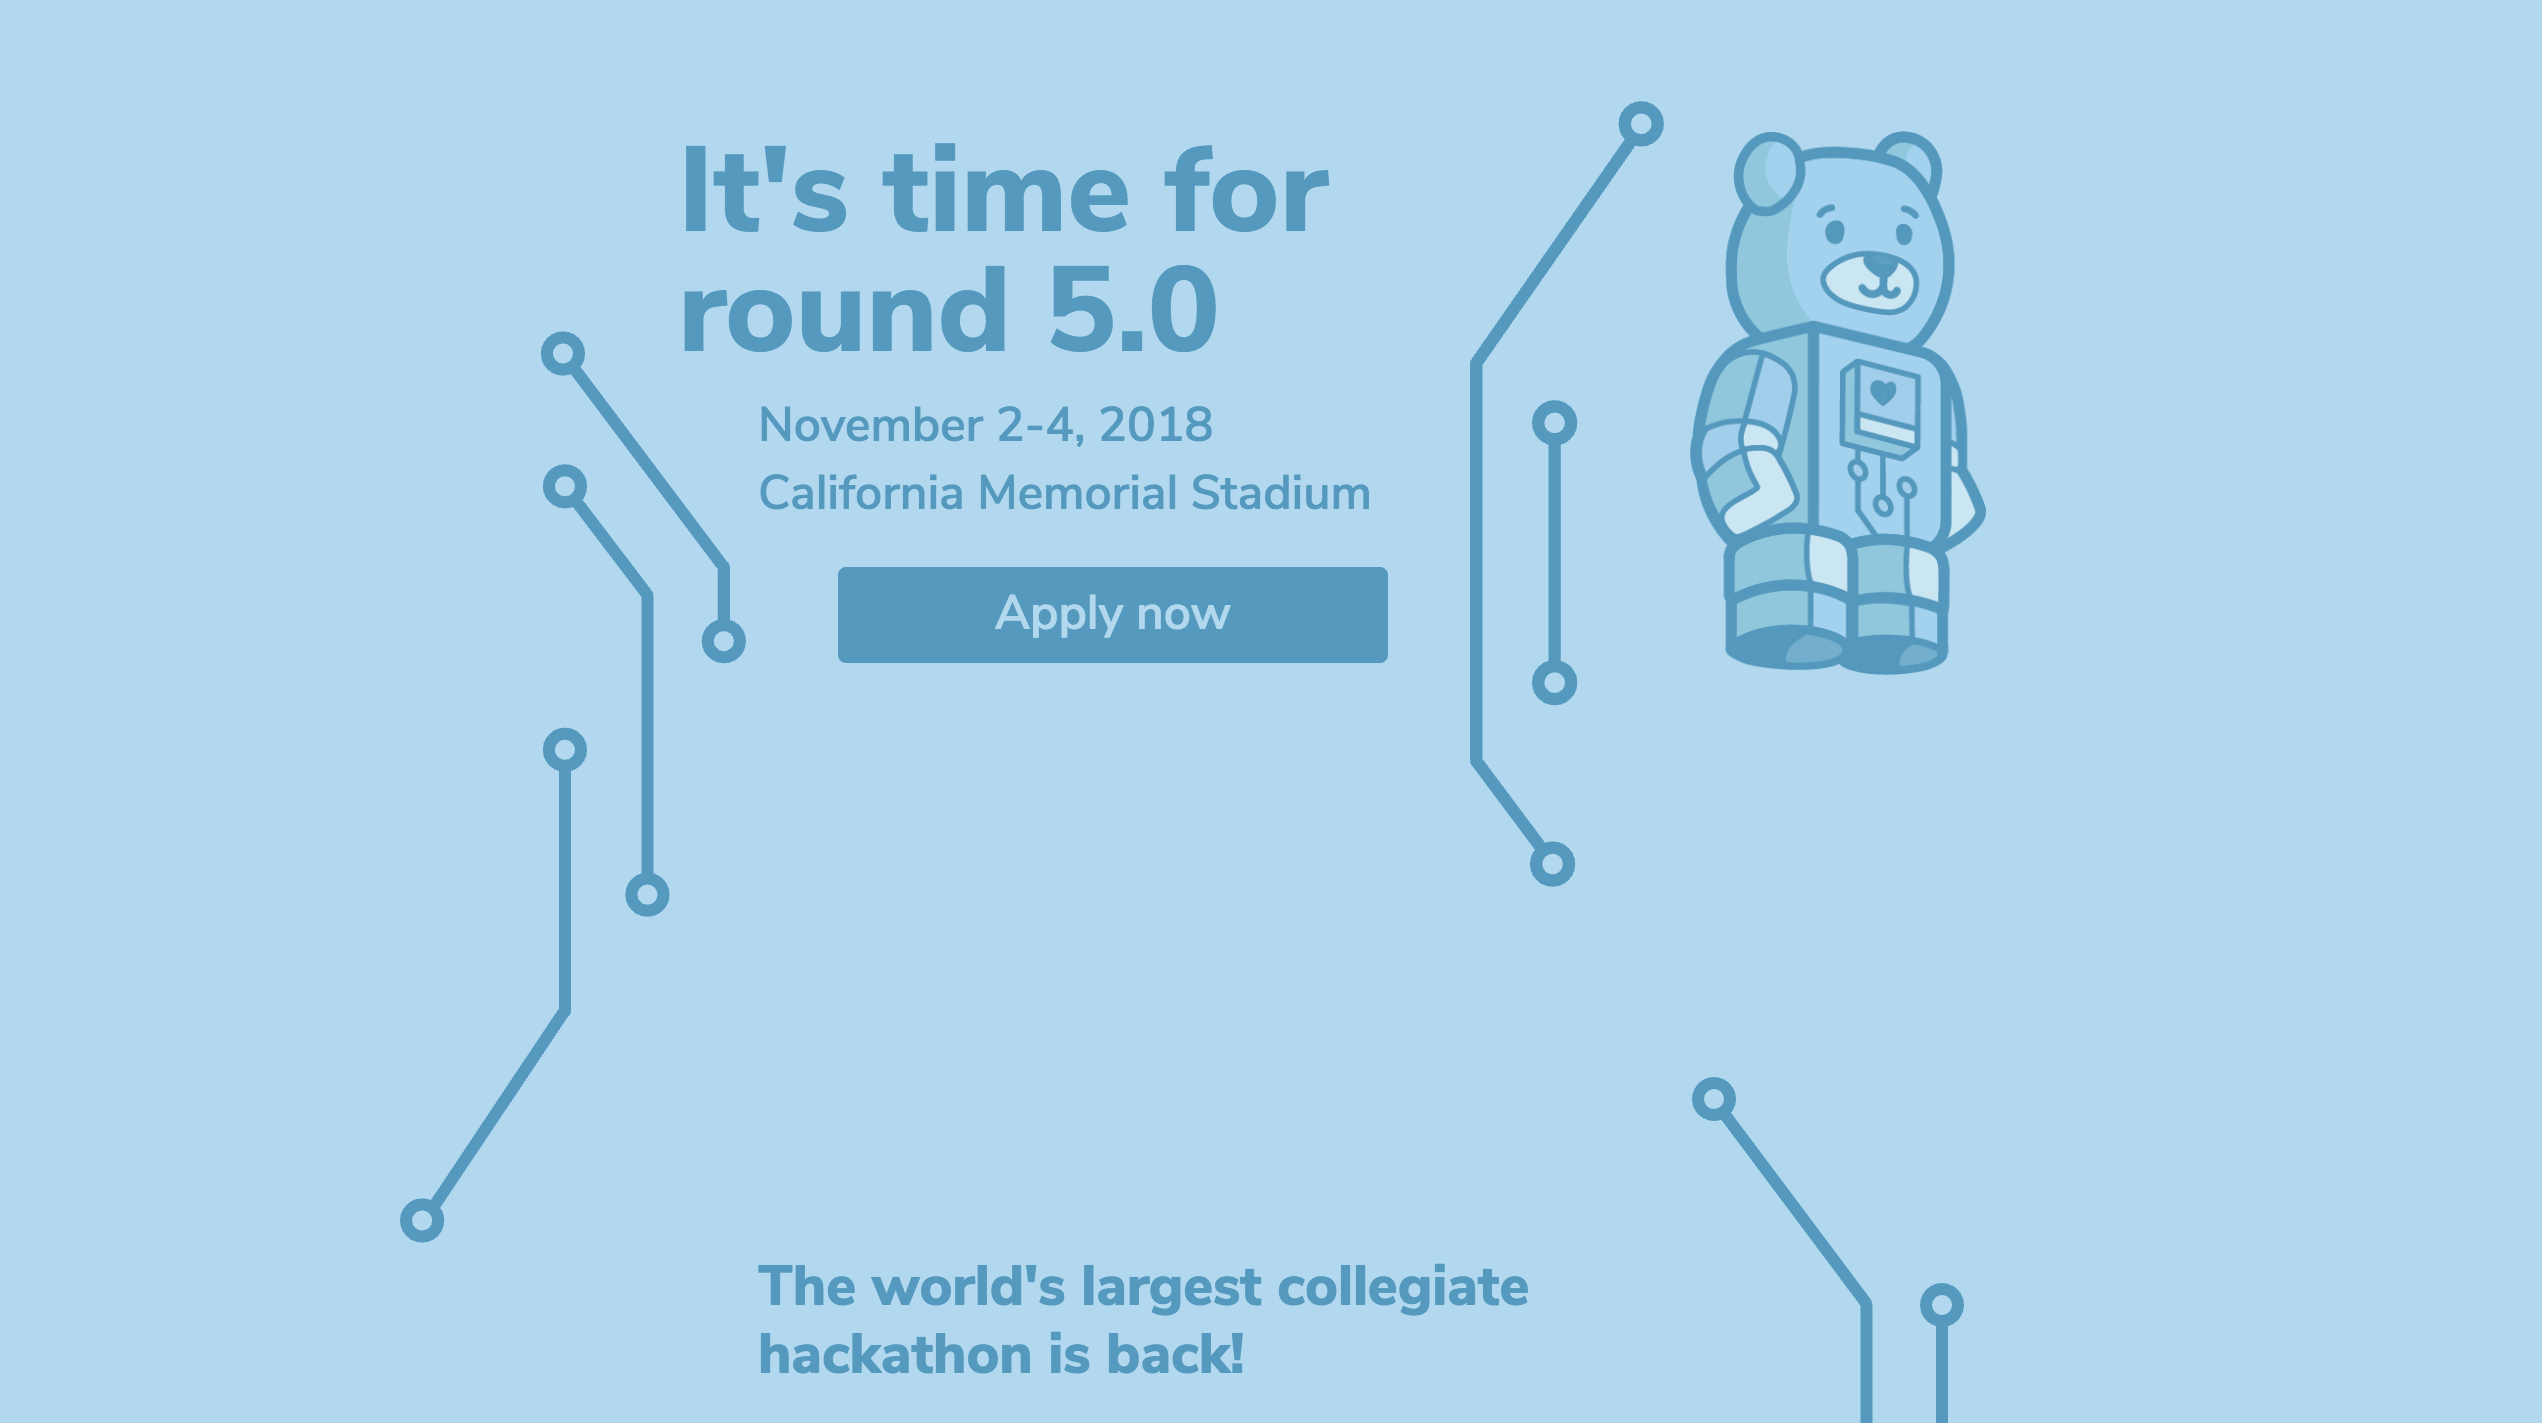
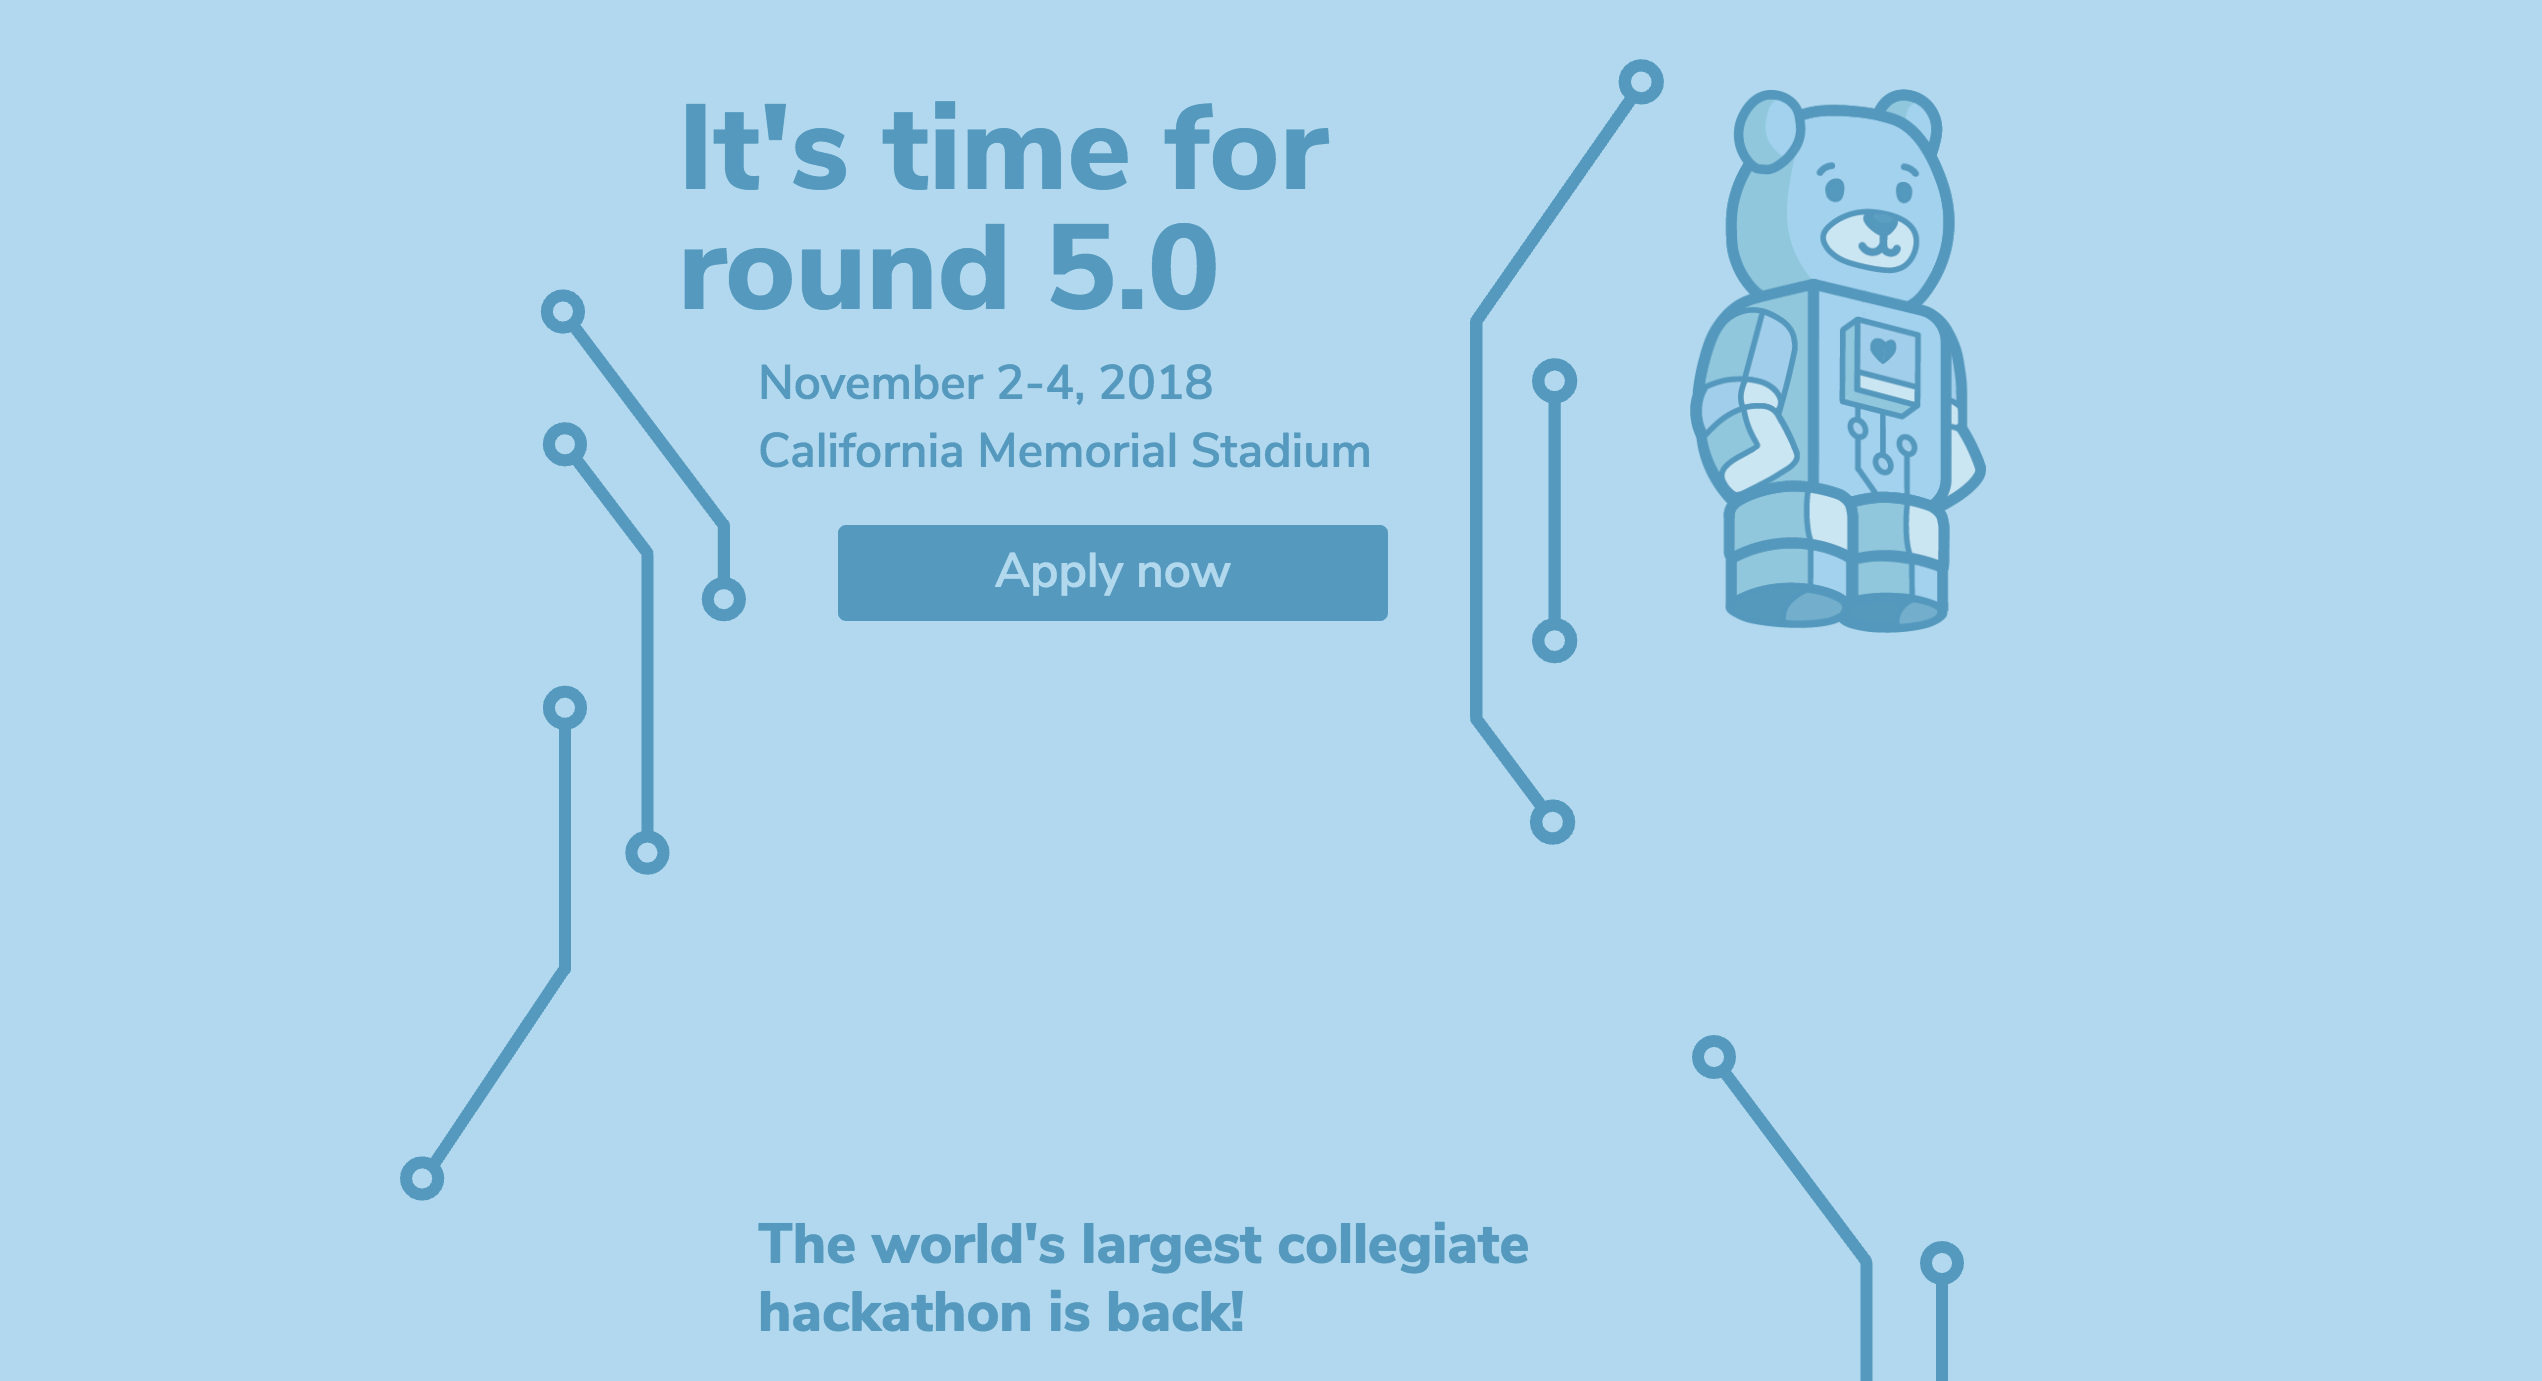
responsive image fix

diff --git a/src/pages/about.js b/src/pages/about.js
@@ -31,8 +31,8 @@ const AboutPage = () => {
         Some things that make me, me &mdash; I'm proudly half-Croatian 🇭🇷 &
         half-Armenian 🇦🇲 , currently am obsessed with
         20th century <a href="https://archive.nytimes.com/www.nytimes.com/books/97/06/15/reviews/marque-solitude.html?mcubz=0" target="_blank" className="sakura">magical realist literature</a>,
-        listen to <a href="https://ohwondermusic.com/" target="_blank" className="sakura">Oh Wonder</a> religiously, and am for no particular reason
-        very proud of my <a href="https://www.pinterest.com/ababakanian/" target="_blank" className="sakura">Pinterest.</a>
+        listen to <a href="https://ohwondermusic.com/" target="_blank" className="sakura">Oh Wonder</a> wholeheartedly, and am
+        constantly augmenting my <a href="https://www.pinterest.com/ababakanian/" target="_blank" className="sakura">Pinterest.</a>
       </h3>
       <h3>
         I'm also super into <a href="http://www.math.uni-duesseldorf.de/~wisbauer/book.pdf" target="_blank" className="sakura">ring theory</a> and the inherently layered

diff --git a/src/common.scss b/src/common.scss
@@ -148,7 +148,7 @@ $deep-shadow: 0 4px 12px 4px get(deep-shadow);
     line-height: 46px;
     width: 500px;
 
-    @media (max-width: 500px) {
+    @media (max-width: 700px) {
       width: 100%;
       font: 400 20px Lato;
       line-height: 42px;
@@ -190,7 +190,7 @@ $deep-shadow: 0 4px 12px 4px get(deep-shadow);
       width: 100%;
       height: 100%;
       background: #fff;
-      opacity: 0.1;
+      opacity: 0.03;
       position: absolute;
       left: 0;
       top: 0;
@@ -201,7 +201,7 @@ $deep-shadow: 0 4px 12px 4px get(deep-shadow);
       transition: 0.2s;
       box-shadow: 0 2px 12px 2px get(deep-shadow);
       .overlay {
-        opacity: 0.05;
+        opacity: 0;
       }
     }
   }

diff --git a/src/components/preview/Preview.scss b/src/components/preview/Preview.scss
@@ -19,17 +19,30 @@
   &.atomic { @include colorize(atomic) }
   &.sakura { @include colorize(sakura) }
 
+  img {
+    height: 100%;
+  }
+
   @media (max-width: 700px) {
     width: calc(100% - 10px);
     height: 300px;
+    .gatsby-image-wrapper {
+      height: 305px;
+    }
   }
 
-  @media (max-width: 600px) {
+  @media (max-width: 650px) {
     height: 280px;
+    .gatsby-image-wrapper {
+      height: 285px;
+    }
   }
 
   @media (max-width: 550px) {
     height: 200px;
+    .gatsby-image-wrapper {
+      height: 205px;
+    }
   }
 
   &:hover {

diff --git a/src/templates/blog-post.js b/src/templates/blog-post.js
@@ -17,7 +17,6 @@ class BlogPostTemplate extends React.Component {
 
         <div dangerouslySetInnerHTML={{ __html: post.html }} />
 
-        <Link to="/design">&larr; Back to all </Link>
       </div>
 
     )

diff --git a/src/pages/code/stubhub-city-pages/index.md b/src/pages/code/stubhub-city-pages/index.md
@@ -1,6 +1,6 @@
 ---
 title: "StubHub City Pages"
-date: "2018-04-12T17:12:33.962Z"
+date: "2018-08-12T17:12:33.962Z"
 featuredImage: ./assets/map.png
 tags: ["code"]
 ---
@@ -19,7 +19,11 @@ I implemented the city page in React. I also made extensive use of external APIs
 <a href="https://developers.google.com/places/web-service/intro" target="_blank" class="matcha">Google Places</a>.
 
 ## User Research
-Several rounds of user testing were performed throughout the summer, including guerilla testing, formalized research in a usability lab, targeted testing, and more.
+Several rounds of user testing were performed throughout the summer, including guerilla testing, formalized research in a usability lab, targeted testing, and more. Most notably, we constructed testing to understand the user needs and desired interface layout by creating components, cutting them out, and giving the interviewees complete freedom to construct an interface that would allow them to optimally explore a city in which they'd like to attend an event.
+
+Some interesting results included the differences & similarities between interfacing with a city as a local versus a tourist, the desired prominence of particular features on the map, and certain filtering functionalities. Since I'm under NDA, please reach out if you'd like more details.
 
 ## Takeaways
-This project gave me the opportunity to develop a complex application within a large, existing codebase revolving around a very modern web development framework. I was entrusted with a lot of responsibility as the sole developer on the project.
+This project gave me the opportunity to develop a complex application within a large, existing codebase revolving around a very modern web development framework. I was entrusted with a lot of responsibility as the sole developer on the project. As such, I gained both programmatic maturity as well as team-based leadership skills.
+
+The final product was particularly rewarding for me given my fascination with mapping interfaces &mdash; it was a vessel for me to both gain technical expertise with the relevant datasets and make design decisions based on user interactions with geospatial data.

diff --git a/src/pages/code/cal-hacks-5-portal/index.md b/src/pages/code/cal-hacks-5-portal/index.md
@@ -1,6 +1,6 @@
 ---
 title: "Cal Hacks 5.0 Landing Page"
-date: "2018-04-12T17:12:33.962Z"
+date: "2018-06-12T17:12:33.962Z"
 featuredImage: ./assets/landing.png
 tags: ["code"]
 ---
@@ -9,3 +9,5 @@ The <a href="https://2018.calhacks.io" target="_blank" class="matcha">landing pa
 is the entry point to Cal Hacks's in-house hacker application portal, sponsor information, live scheduling site, and more. I centered the design and implementation around a floaty circuited theme.
 
 ![5.0 landing page](./assets/landing.png)
+
+5.0 is the first time in Cal Hacks' five-year history that we've had a full-fledged application portal. As such, it's a significant milestone in our history and allows for a much more robust backend system than our prior combinations of Typeforms and internal app-reading systems/

diff --git a/src/pages/prototyping/drawing-machine/index.md b/src/pages/prototyping/drawing-machine/index.md
@@ -1,6 +1,6 @@
 ---
 title: "Circumferential Drawing Machine"
-date: "2018-04-12T17:12:33.962Z"
+date: "2018-06-12T17:12:33.962Z"
 featuredImage: ./assets/final.png
 tags: ["prototyping"]
 ---

diff --git a/src/pages/code/cal-hacks-permanent-site/index.md b/src/pages/code/cal-hacks-permanent-site/index.md
@@ -1,6 +1,6 @@
 ---
 title: "Cal Hacks Permanent Site"
-date: "2018-04-12T17:12:33.962Z"
+date: "2018-07-12T17:12:33.962Z"
 featuredImage: ./assets/ch-site.png
 tags: ["code"]
 ---

diff --git a/src/pages/prototyping/pond-in-geared-motion/index.md b/src/pages/prototyping/pond-in-geared-motion/index.md
@@ -1,6 +1,6 @@
 ---
 title: "Pond in Geared Motion"
-date: "2018-04-12T17:12:33.962Z"
+date: "2018-08-12T17:12:33.962Z"
 featuredImage: ./assets/koi.png
 tags: ["prototyping"]
 ---

diff --git a/src/pages/prototyping/breathing-kirigami/index.md b/src/pages/prototyping/breathing-kirigami/index.md
@@ -1,6 +1,6 @@
 ---
 title: "Breathing Kirigami"
-date: "2018-04-12T17:12:33.962Z"
+date: "2018-07-12T17:12:33.962Z"
 featuredImage: ./assets/show.png
 tags: ["prototyping"]
 ---

diff --git a/src/pages/design/dinestination/index.md b/src/pages/design/dinestination/index.md
@@ -1,6 +1,6 @@
 ---
 title: "Dinestination"
-date: "2018-04-12T17:12:33.962Z"
+date: "2018-08-12T17:12:33.962Z"
 featuredImage: ./assets/dinestination.png
 tags: ["design"]
 ---

diff --git a/src/pages/code/dinestination/index.md b/src/pages/code/dinestination/index.md
@@ -1,6 +1,6 @@
 ---
 title: "Dinestination"
-date: "2018-04-12T17:12:33.962Z"
+date: "2018-09-12T17:12:33.962Z"
 featuredImage: ./assets/dinestination.png
 tags: ["code"]
 ---
